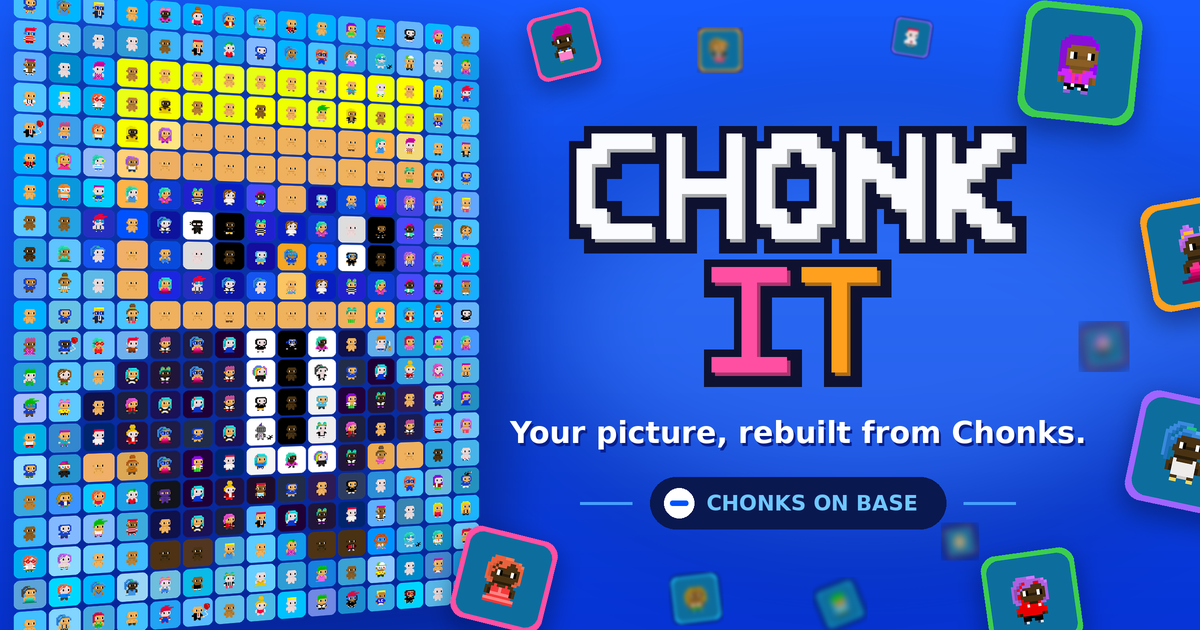
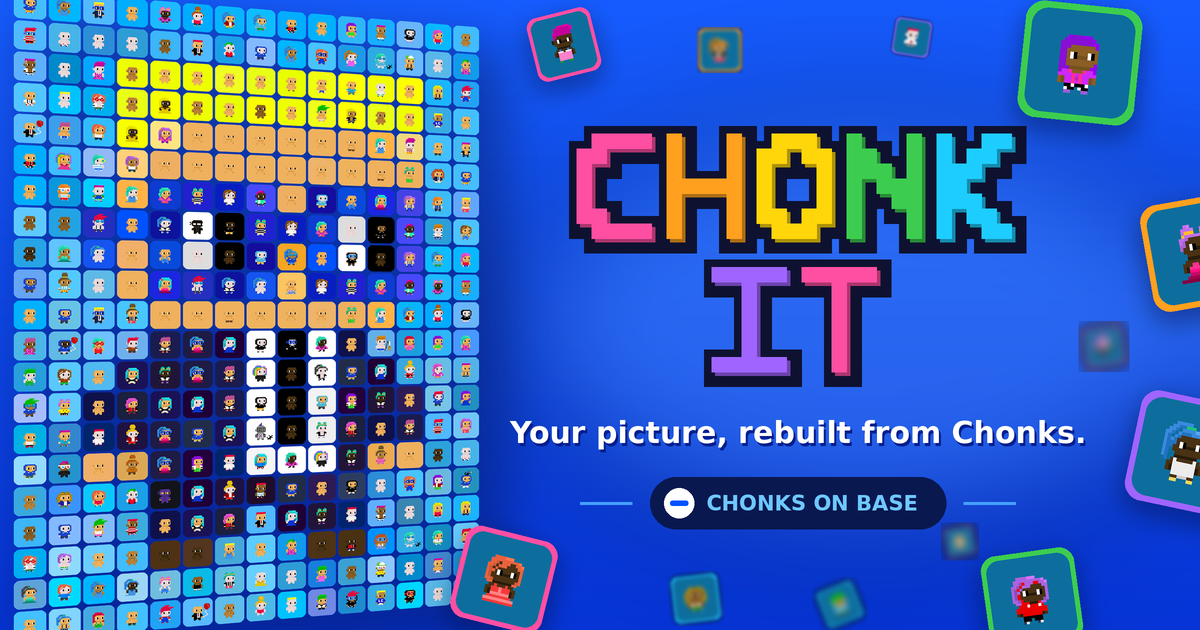
Rainbow CHONK IT title on link preview card
Claude-Session: https://claude.ai/code/session_01Y1TVXdjWenmMWjdeMyhEdj

Changed region(s): [[0.4625, 0.2111, 0.8633, 0.3921], [0.5858, 0.4222, 0.74, 0.6032]]

diff --git a/index.html b/index.html
@@ -12,7 +12,7 @@
 <meta property="og:title" content="Chonkit: your picture, rebuilt from Chonks">
 <meta property="og:description" content="Drop in any image and get it back as a mosaic made of Chonks. Free, runs in your browser.">
 <meta property="og:url" content="https://chonkit.xyz/">
-<meta property="og:image" content="https://chonkit.xyz/og.png?v=3">
+<meta property="og:image" content="https://chonkit.xyz/og.png?v=4">
 <meta property="og:image:width" content="1200">
 <meta property="og:image:height" content="630">
 <meta name="twitter:card" content="summary_large_image">

diff --git a/make_social_image.py b/make_social_image.py
@@ -40,6 +40,21 @@ BLUE_TOP, BLUE_BOTTOM = (22, 92, 255), (6, 52, 214)
 INK = (14, 18, 48)
 WORD2_COLOURS = [(255, 79, 163), (255, 160, 30), (60, 205, 80), (30, 190, 255), (160, 100, 255), (139, 92, 255)]
 
+# title colour styles: (CHONK letter colour, IT letter colour), by letter index
+PINK, ORANGE, YELLOW, GREEN, CYAN, PURPLE, WHITE = (255, 79, 163), (255, 160, 30), (255, 214, 10), (60, 205, 80), (30, 205, 255), (160, 100, 255), (250, 252, 255)
+RAINBOW = [PINK, ORANGE, YELLOW, GREEN, CYAN, PURPLE, PINK]
+TITLE_STYLES = {
+    "classic":  (lambda i: WHITE, lambda i: WORD2_COLOURS[i % len(WORD2_COLOURS)]),
+    "rainbow":  (lambda i: RAINBOW[i], lambda i: RAINBOW[5 + i]),
+    "sunshine": (lambda i: YELLOW, lambda i: PINK),
+    "candy":    (lambda i: PINK, lambda i: YELLOW),
+    "mint":     (lambda i: WHITE, lambda i: (90, 240, 170)),
+    "gold":     (lambda i: YELLOW, lambda i: WHITE),
+    "rainbow-white": (lambda i: RAINBOW[i], lambda i: WHITE),
+    "white":    (lambda i: WHITE, lambda i: WHITE),
+}
+TITLE = TITLE_STYLES["classic"]
+
 # 5x7 pixel letters for the title
 GLYPHS = {
     "C": ["01111", "11000", "10000", "10000", "10000", "11000", "01111"],
@@ -276,7 +291,13 @@ def main():
     ap.add_argument("--seed", type=int, help="change the random layout")
     ap.add_argument("--art", help="a picture (painting, photo) to rebuild from Chonks on the card")
     ap.add_argument("--focus", type=float, default=1.0, help="with --art: which part of a wide picture to show, 0 = left, 1 = right")
+    ap.add_argument("--title", default="classic", choices=sorted(TITLE_STYLES), help="colours for the CHONK IT title")
+    ap.add_argument("--out", help="where to save (default web/og.png)")
     args = ap.parse_args()
+    global TITLE, OUT
+    TITLE = TITLE_STYLES[args.title]
+    if args.out:
+        OUT = Path(args.out)
     rng = np.random.default_rng(args.seed)
     rnd = random.Random(args.seed)
 
@@ -325,8 +346,8 @@ def main():
     # title block
     right_cx = W * 0.665
     px1 = 15 * S
-    w1 = pixel_word("CHONK", px1, lambda i: (250, 252, 255))
-    w2 = pixel_word("IT", px1, lambda i: WORD2_COLOURS[i % len(WORD2_COLOURS)])
+    w1 = pixel_word("CHONK", px1, TITLE[0])
+    w2 = pixel_word("IT", px1, TITLE[1])
     top = H * 0.2
     paste_centre(canvas, w1, right_cx, top + w1.height / 2)
     paste_centre(canvas, w2, right_cx, top + w1.height + 6 * S + w2.height / 2)
@@ -372,8 +393,8 @@ def main():
 def title_block(canvas, cx, top, scale=1.0):
     """CHONK MOSAIC title, tagline and pill, centred on cx."""
     px1 = int(12 * S * scale)
-    w1 = pixel_word("CHONK", px1, lambda i: (250, 252, 255))
-    w2 = pixel_word("IT", px1, lambda i: WORD2_COLOURS[i % len(WORD2_COLOURS)])
+    w1 = pixel_word("CHONK", px1, TITLE[0])
+    w2 = pixel_word("IT", px1, TITLE[1])
     paste_centre(canvas, w1, cx, top + w1.height / 2)
     paste_centre(canvas, w2, cx, top + w1.height + 6 * S + w2.height / 2)
     d = ImageDraw.Draw(canvas)
